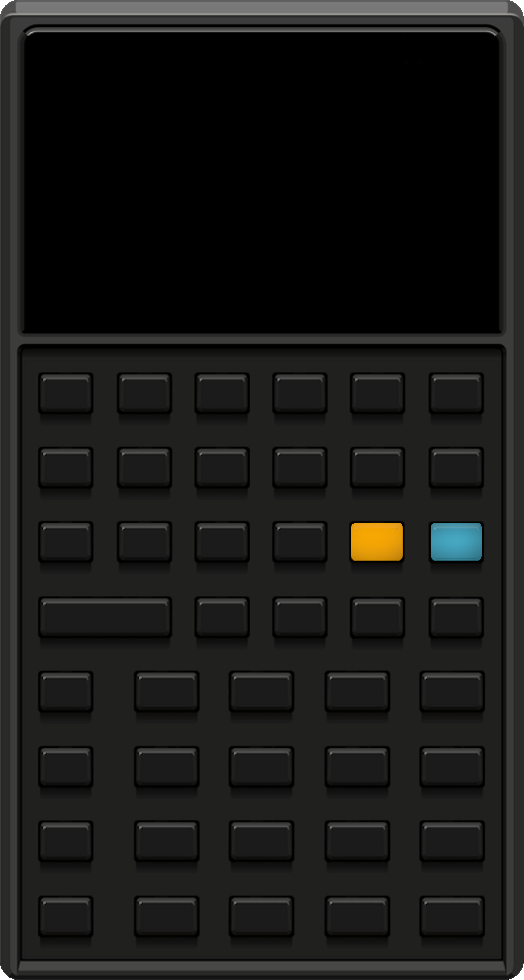
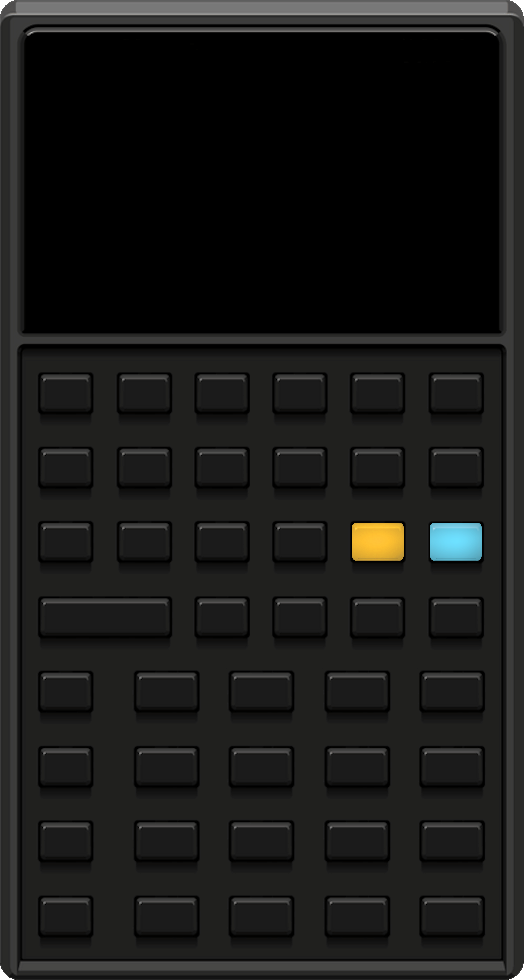
Luminosity change for f and g keys

Changed region(s): [[0.6718, 0.5204, 0.7939, 0.5816], [0.8244, 0.5204, 0.916, 0.5816]]

diff --git a/src/wp43s/gui.c b/src/wp43s/gui.c
@@ -606,62 +606,41 @@
             }
 
             if(!strcmp(parameter + 5, "Normal")) {
-              if(!strcmp(value, "none")) {
-                calcKeyboard[calcKey].keyImage[0] = NULL;
-                calcKeyboard[calcKey].width[0] = 0;
-                calcKeyboard[calcKey].height[0] = 0;
+              sprintf(fileName, "%s%s", skinDirectory, value);
+              if(access(fileName, F_OK) != 0) {
+                moreInfoOnError("In function prepareSkin:", "error: cannot access file", fileName, NULL);
+                exit(1);
               }
-              else {
-                sprintf(fileName, "%s%s", skinDirectory, value);
-                if(access(fileName, F_OK) != 0) {
-                  moreInfoOnError("In function prepareSkin:", "error: cannot access file", fileName, NULL);
-                  exit(1);
-                }
-                calcKeyboard[calcKey].keyImage[0] = gtk_image_new_from_file(fileName);
-                const GdkPixbuf *pb = gtk_image_get_pixbuf(GTK_IMAGE(calcKeyboard[calcKey].keyImage[0]));
-                calcKeyboard[calcKey].width[0] = gdk_pixbuf_get_width(pb);
-                calcKeyboard[calcKey].height[0] = gdk_pixbuf_get_height(pb);
-              }
+              calcKeyboard[calcKey].keyImage[0] = gtk_image_new_from_file(fileName);
+              const GdkPixbuf *pb = gtk_image_get_pixbuf(GTK_IMAGE(calcKeyboard[calcKey].keyImage[0]));
+              calcKeyboard[calcKey].width[0] = gdk_pixbuf_get_width(pb);
+              calcKeyboard[calcKey].height[0] = gdk_pixbuf_get_height(pb);
               continue;
             }
 
             if(!strcmp(parameter + 5, "AIM")) {
-              if(!strcmp(value, "none")) {
-                calcKeyboard[calcKey].keyImage[1] = NULL;
-                calcKeyboard[calcKey].width[1] = 0;
-                calcKeyboard[calcKey].height[1] = 0;
+              sprintf(fileName, "%s%s", skinDirectory, value);
+              if(access(fileName, F_OK) != 0) {
+                moreInfoOnError("In function prepareSkin:", "error: cannot access file", fileName, NULL);
+                exit(1);
               }
-              else {
-                sprintf(fileName, "%s%s", skinDirectory, value);
-                if(access(fileName, F_OK) != 0) {
-                  moreInfoOnError("In function prepareSkin:", "error: cannot access file", fileName, NULL);
-                  exit(1);
-                }
-                calcKeyboard[calcKey].keyImage[1] = gtk_image_new_from_file(fileName);
-                const GdkPixbuf *pb = gtk_image_get_pixbuf(GTK_IMAGE(calcKeyboard[calcKey].keyImage[1]));
-                calcKeyboard[calcKey].width[1] = gdk_pixbuf_get_width(pb);
-                calcKeyboard[calcKey].height[1] = gdk_pixbuf_get_height(pb);
-              }
+              calcKeyboard[calcKey].keyImage[1] = gtk_image_new_from_file(fileName);
+              const GdkPixbuf *pb = gtk_image_get_pixbuf(GTK_IMAGE(calcKeyboard[calcKey].keyImage[1]));
+              calcKeyboard[calcKey].width[1] = gdk_pixbuf_get_width(pb);
+              calcKeyboard[calcKey].height[1] = gdk_pixbuf_get_height(pb);
               continue;
             }
 
             if(!strcmp(parameter + 5, "TAM")) {
-              if(!strcmp(value, "none")) {
-                calcKeyboard[calcKey].keyImage[2] = NULL;
-                calcKeyboard[calcKey].width[2] = 0;
-                calcKeyboard[calcKey].height[2] = 0;
+              sprintf(fileName, "%s%s", skinDirectory, value);
+              if(access(fileName, F_OK) != 0) {
+                moreInfoOnError("In function prepareSkin:", "error: cannot access file", fileName, NULL);
+                exit(1);
               }
-              else {
-                sprintf(fileName, "%s%s", skinDirectory, value);
-                if(access(fileName, F_OK) != 0) {
-                  moreInfoOnError("In function prepareSkin:", "error: cannot access file", fileName, NULL);
-                  exit(1);
-                }
-                calcKeyboard[calcKey].keyImage[2] = gtk_image_new_from_file(fileName);
-                const GdkPixbuf *pb = gtk_image_get_pixbuf(GTK_IMAGE(calcKeyboard[calcKey].keyImage[2]));
-                calcKeyboard[calcKey].width[2] = gdk_pixbuf_get_width(pb);
-                calcKeyboard[calcKey].height[2] = gdk_pixbuf_get_height(pb);
-              }
+              calcKeyboard[calcKey].keyImage[2] = gtk_image_new_from_file(fileName);
+              const GdkPixbuf *pb = gtk_image_get_pixbuf(GTK_IMAGE(calcKeyboard[calcKey].keyImage[2]));
+              calcKeyboard[calcKey].width[2] = gdk_pixbuf_get_width(pb);
+              calcKeyboard[calcKey].height[2] = gdk_pixbuf_get_height(pb);
               continue;
             }
           }
@@ -750,12 +729,9 @@
       currentBezel = 0;
 
       for(key=0; key<43; key++) {
-        if(calcKeyboard[key].keyImage[1] != NULL)
-          gtk_fixed_move(GTK_FIXED(grid), calcKeyboard[key].keyImage[1], -999,                -999);
-        if(calcKeyboard[key].keyImage[2] != NULL)
-          gtk_fixed_move(GTK_FIXED(grid), calcKeyboard[key].keyImage[2], -999,                -999);
-        if(calcKeyboard[key].keyImage[0] != NULL)
-          gtk_fixed_move(GTK_FIXED(grid), calcKeyboard[key].keyImage[0], calcKeyboard[key].x, calcKeyboard[key].y);
+        gtk_fixed_move(GTK_FIXED(grid), calcKeyboard[key].keyImage[1], -999,                -999);
+        gtk_fixed_move(GTK_FIXED(grid), calcKeyboard[key].keyImage[2], -999,                -999);
+        gtk_fixed_move(GTK_FIXED(grid), calcKeyboard[key].keyImage[0], calcKeyboard[key].x, calcKeyboard[key].y);
       }
     }
 
@@ -768,12 +744,9 @@
       currentBezel = 1;
 
       for(key=0; key<43; key++) {
-        if(calcKeyboard[key].keyImage[0] != NULL)
-          gtk_fixed_move(GTK_FIXED(grid), calcKeyboard[key].keyImage[0], -999,                -999);
-        if(calcKeyboard[key].keyImage[2] != NULL)
-          gtk_fixed_move(GTK_FIXED(grid), calcKeyboard[key].keyImage[2], -999,                -999);
-        if(calcKeyboard[key].keyImage[1] != NULL)
-          gtk_fixed_move(GTK_FIXED(grid), calcKeyboard[key].keyImage[1], calcKeyboard[key].x, calcKeyboard[key].y);
+        gtk_fixed_move(GTK_FIXED(grid), calcKeyboard[key].keyImage[0], -999,                -999);
+        gtk_fixed_move(GTK_FIXED(grid), calcKeyboard[key].keyImage[2], -999,                -999);
+        gtk_fixed_move(GTK_FIXED(grid), calcKeyboard[key].keyImage[1], calcKeyboard[key].x, calcKeyboard[key].y);
       }
     }
 
@@ -786,12 +759,9 @@
       currentBezel = 2;
 
       for(key=0; key<43; key++) {
-        if(calcKeyboard[key].keyImage[0] != NULL)
-          gtk_fixed_move(GTK_FIXED(grid), calcKeyboard[key].keyImage[0], -999,                -999);
-        if(calcKeyboard[key].keyImage[1] != NULL)
-          gtk_fixed_move(GTK_FIXED(grid), calcKeyboard[key].keyImage[1], -999,                -999);
-        if(calcKeyboard[key].keyImage[2] != NULL)
-          gtk_fixed_move(GTK_FIXED(grid), calcKeyboard[key].keyImage[2], calcKeyboard[key].x, calcKeyboard[key].y);
+        gtk_fixed_move(GTK_FIXED(grid), calcKeyboard[key].keyImage[0], -999,                -999);
+        gtk_fixed_move(GTK_FIXED(grid), calcKeyboard[key].keyImage[1], -999,                -999);
+        gtk_fixed_move(GTK_FIXED(grid), calcKeyboard[key].keyImage[2], calcKeyboard[key].x, calcKeyboard[key].y);
       }
     }
   #endif // (SCREEN_800X480 == 0)
@@ -898,9 +868,7 @@
       }
       for(int key=0; key<43; key++) {
         for(int bezel=0; bezel<3; bezel++) {
-          if(calcKeyboard[key].keyImage[bezel] != NULL) {
-            gtk_fixed_put(GTK_FIXED(grid), calcKeyboard[key].keyImage[bezel], -999, -999);
-          }
+          gtk_fixed_put(GTK_FIXED(grid), calcKeyboard[key].keyImage[bezel], -999, -999);
         }
       }
 
